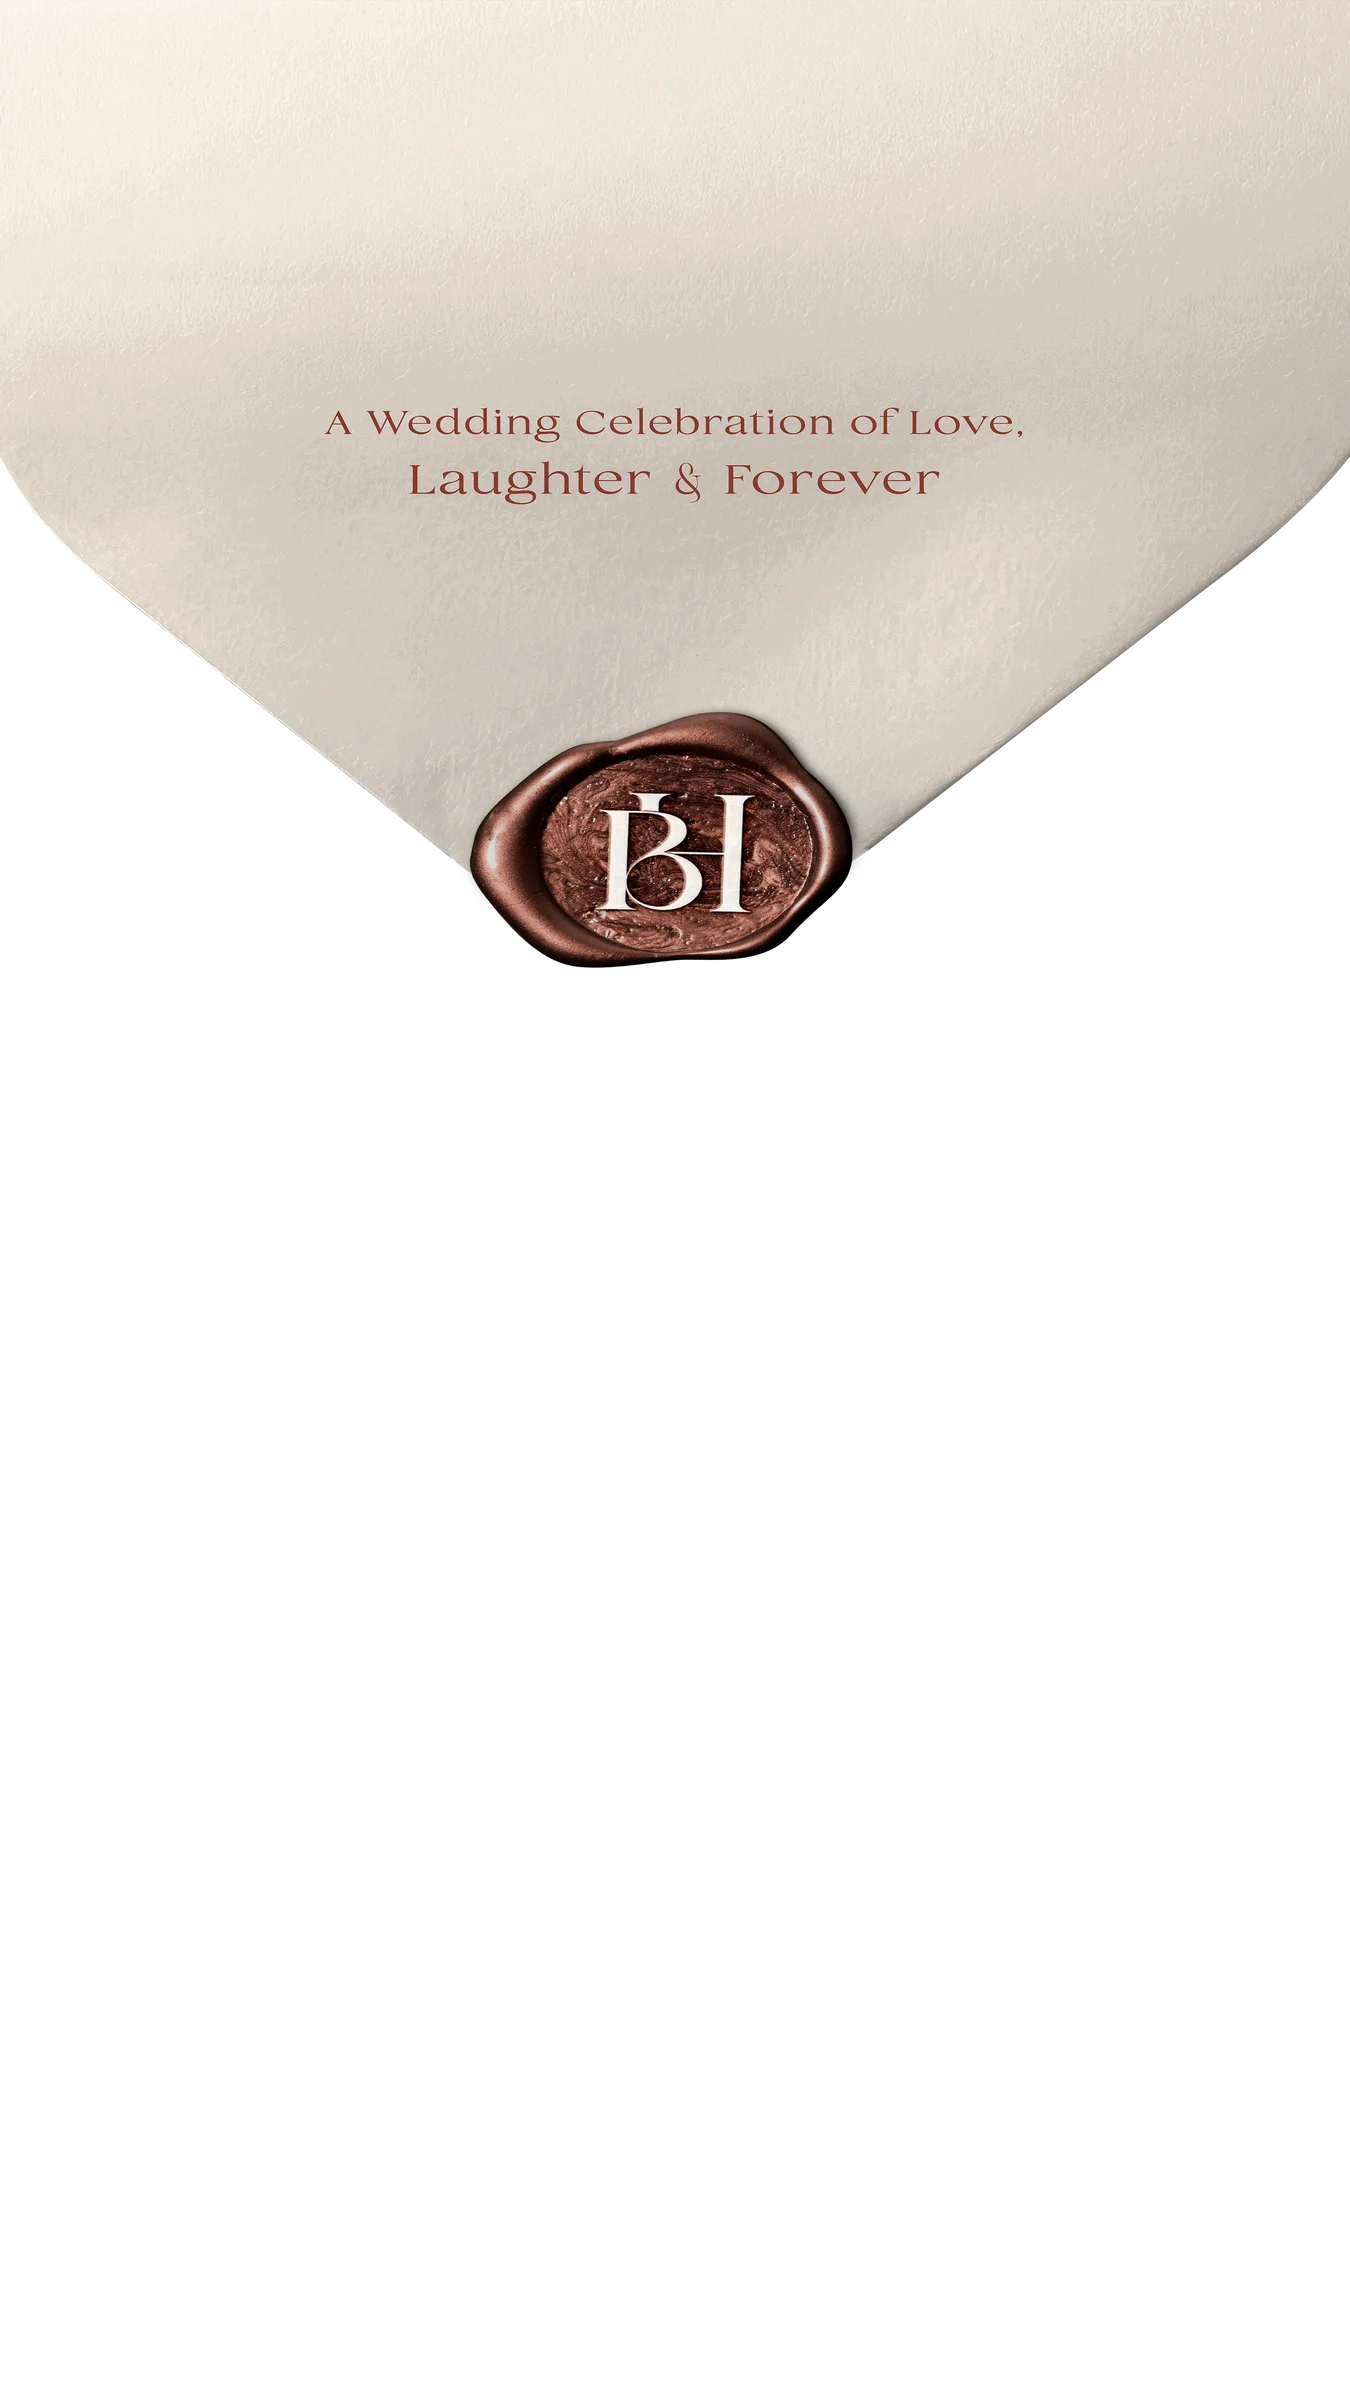
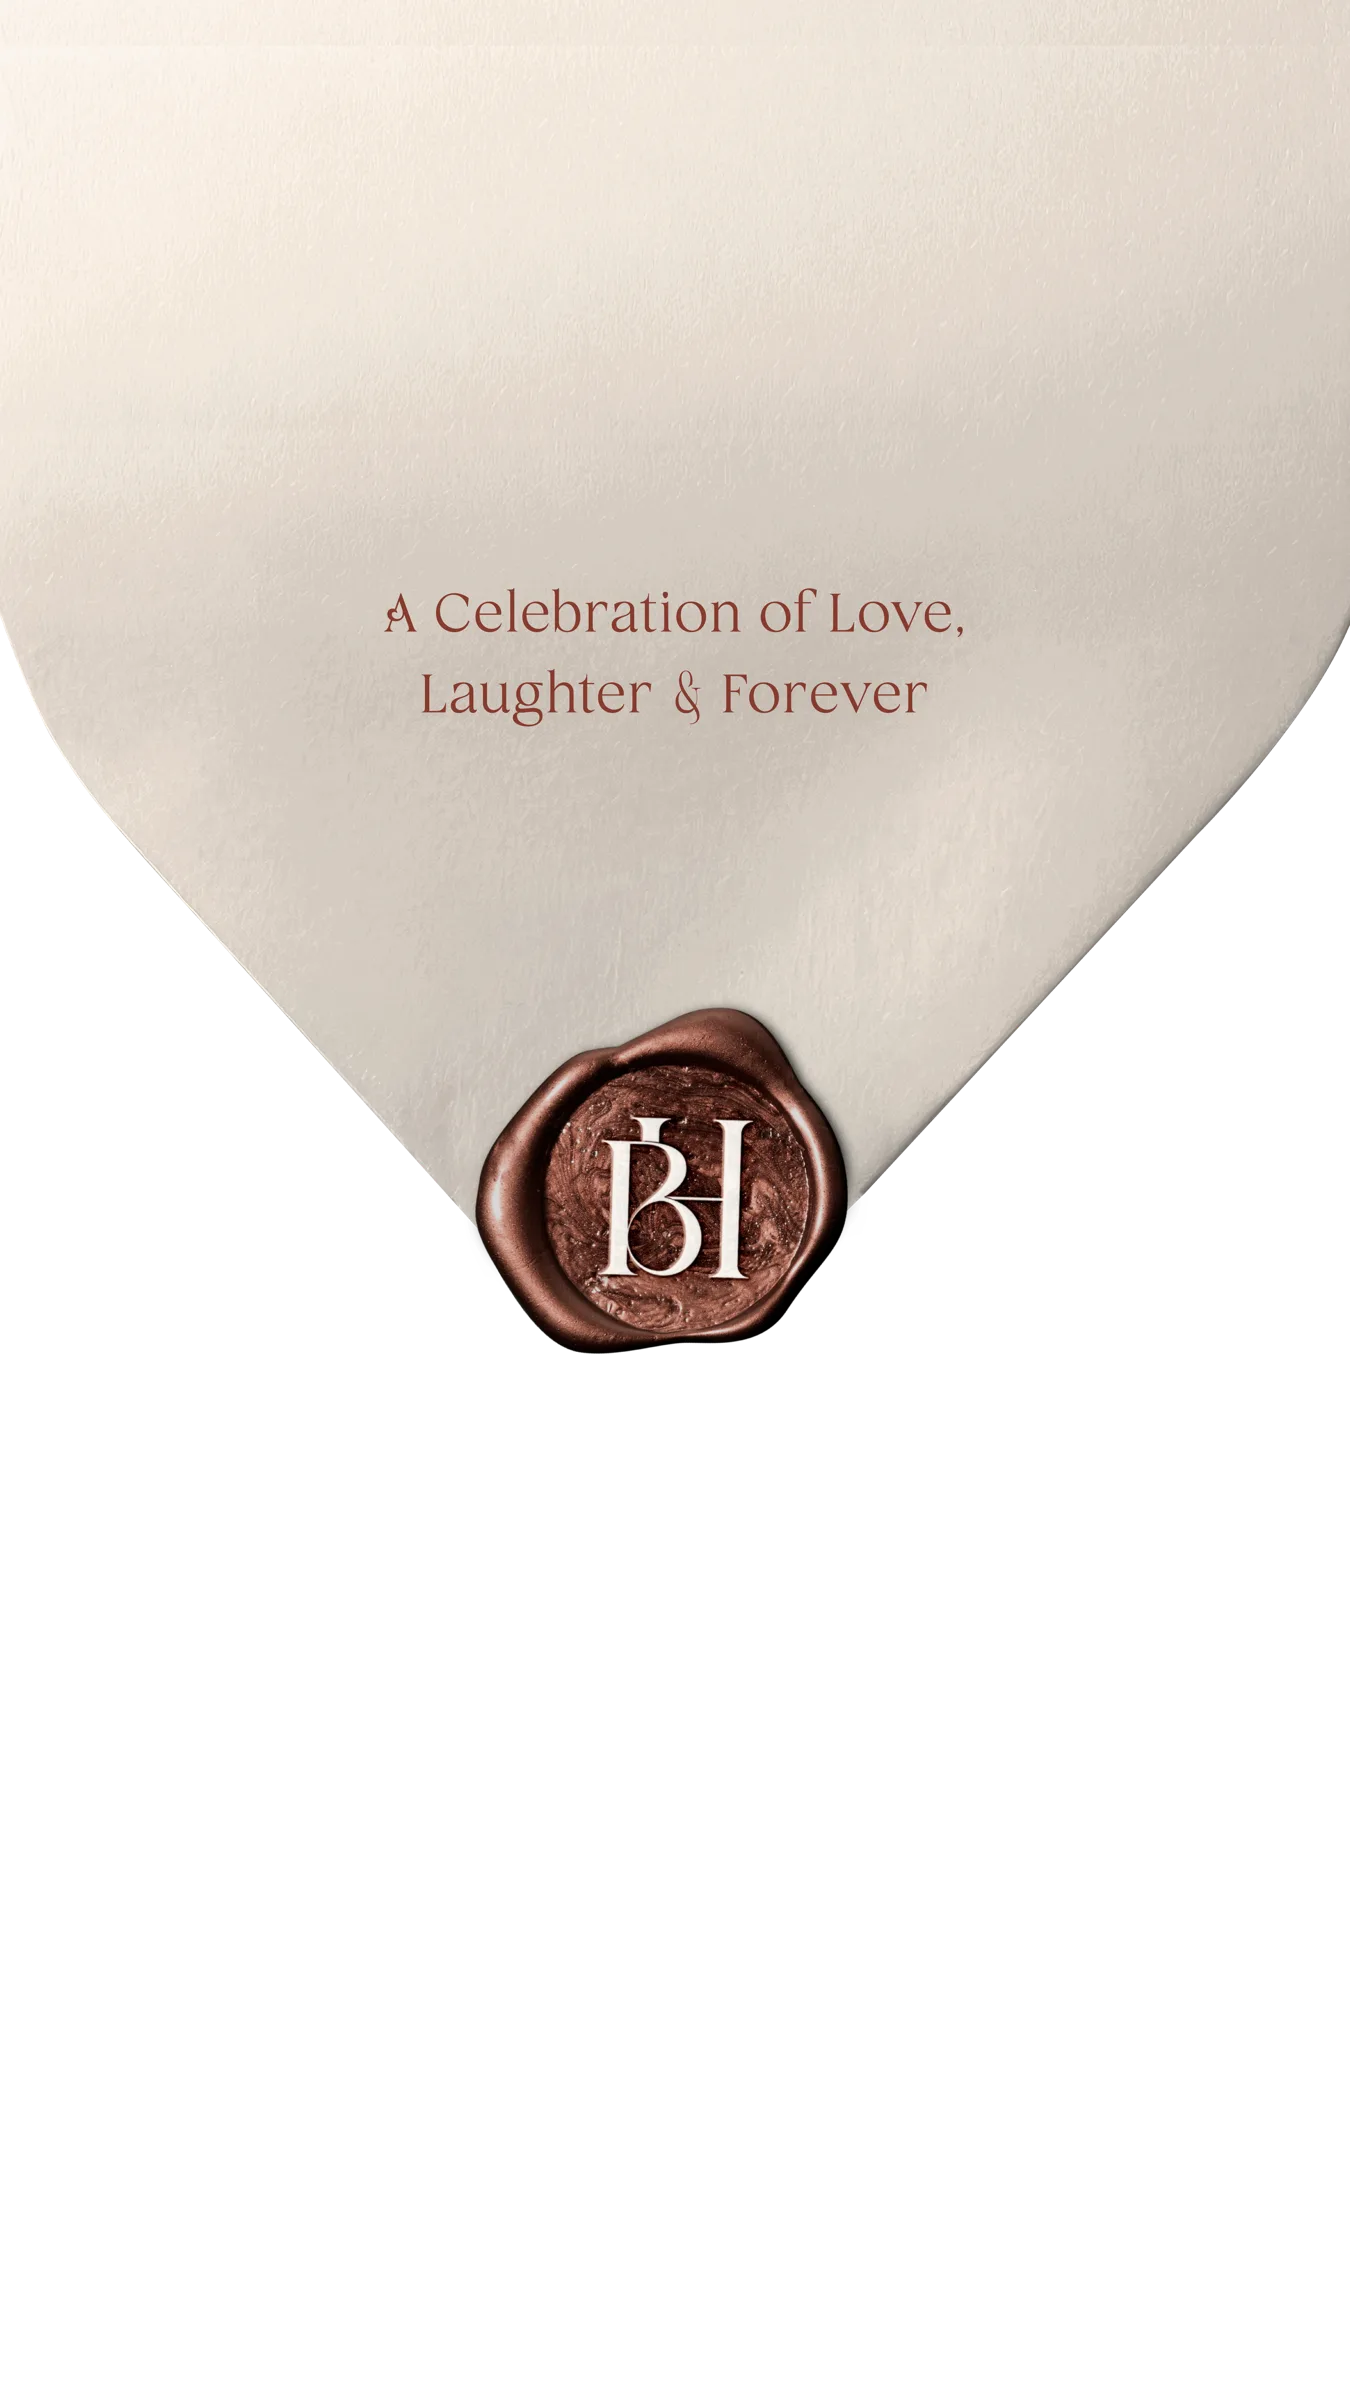
feat: countdown to 11 Nov 2026; revert envelope to original artwork
- New CountdownSection before the venue: live days/hours/minutes/seconds
  to 11 November 2026 (IST) in the site's maroon & gold style
- Envelope opening restored to the original Open 1/Open 2 experience
  (component and assets from before the Open 4 redesign)

diff --git a/components/EnvelopeReveal.tsx b/components/EnvelopeReveal.tsx
@@ -2,17 +2,12 @@
 
 /**
  * EnvelopeReveal — full-screen envelope opening built from the couple's
- * "Open 4" artwork:
- *   "Open 4v"   — the composed closed envelope, the first screen
- *   "Open 4-1"  — transparent flap cutout with the BH wax seal, the
- *                 3D piece that peels open (hinged at the top edge)
- *   "Open 4-2"  — first stage of the light effect revealed underneath
- *   "Open 4-2.1"— second, fully blanched stage the scene builds to
- * Tap anywhere → the closed art dissolves into the lit envelope as the
- * flap peels back, light bleeding out of the mouth as it lifts → a bright
- * flash as it fully opens → the site.
+ * artwork: "Open 2" (envelope body + interior) as the base layer and
+ * "Open 1" (transparent flap cutout with the BH wax seal) as a 3D flap
+ * hinged at the top edge. Tap anywhere → flap peels back → the scene
+ * dissolves into light → the site.
  *
- * All images share one 9:16 canvas, so identical full-screen
+ * Both images share one 9:16 canvas, so identical full-screen
  * object-fit:cover rendering keeps them pixel-registered at any viewport.
  * On phone aspect ratios the image height fits exactly, putting the flap
  * hinge (canvas top) at the screen top edge.
@@ -21,10 +16,9 @@
 import { useEffect, useRef, useState } from "react";
 import { gsap } from "gsap";
 
-const CLOSED_SRC = "/alexa-richard-wedding/envelope-closed.webp";
-const BODY_SRC   = "/alexa-richard-wedding/envelope-body.webp";
-const FLAP_SRC   = "/alexa-richard-wedding/envelope-flap.webp";
-const LIGHT_SRC  = "/alexa-richard-wedding/envelope-light.webp";
+const BODY_SRC  = "/alexa-richard-wedding/envelope-body.webp";
+const FLAP_SRC  = "/alexa-richard-wedding/envelope-flap.webp";
+const LIGHT_SRC = "/alexa-richard-wedding/envelope-light.webp";
 
 const COVER_IMG: React.CSSProperties = {
   position: "absolute",
@@ -45,15 +39,12 @@ export default function EnvelopeReveal({ onOpenComplete, onPlayMusic }: Envelope
   const [mounted, setMounted] = useState(false);
   const [triggered, setTriggered] = useState(false);
   const [loadedCount, setLoadedCount] = useState(0);
-  const ready = loadedCount >= 2; // closed art + flap decoded
+  const ready = loadedCount >= 2; // body + flap decoded
 
   const overlayRef = useRef<HTMLDivElement>(null);
   const sceneRef   = useRef<HTMLDivElement>(null);
-  const closedRef  = useRef<HTMLImageElement>(null);
   const flapRef    = useRef<HTMLDivElement>(null);
   const lightRef   = useRef<HTMLImageElement>(null);
-  const glowRef    = useRef<HTMLDivElement>(null);
-  const flashRef   = useRef<HTMLDivElement>(null);
   const bloomRef   = useRef<HTMLDivElement>(null);
   const mainTlRef  = useRef<gsap.core.Timeline | null>(null);
   const idleTlRef  = useRef<gsap.core.Timeline | null>(null);
@@ -66,12 +57,13 @@ export default function EnvelopeReveal({ onOpenComplete, onPlayMusic }: Envelope
     gsap.to(sceneRef.current, { opacity: 1, duration: 0.35, ease: "power1.out" });
   }, [ready]);
 
-  // Idle breathing — the closed envelope swells almost imperceptibly, like
-  // paper catching candlelight; real stationery never sits perfectly still.
+  // Idle breathing — the flap tip hovers slightly toward the viewer and
+  // settles; real paper never lies perfectly flat.
   useEffect(() => {
     if (!mounted || !ready) return;
+    gsap.set(flapRef.current, { rotationX: 2.5 });
     const tl = gsap.timeline({ repeat: -1, yoyo: true });
-    tl.to(closedRef.current, { scale: 1.012, duration: 2.6, ease: "sine.inOut" });
+    tl.to(flapRef.current, { rotationX: 5, duration: 2.4, ease: "sine.inOut" });
     idleTlRef.current = tl;
     return () => { tl.kill(); };
   }, [mounted, ready]);
@@ -79,13 +71,7 @@ export default function EnvelopeReveal({ onOpenComplete, onPlayMusic }: Envelope
   useEffect(() => {
     if (!mounted) return;
     gsap.set(bloomRef.current, { opacity: 0 });
-    gsap.set(flashRef.current, { opacity: 0 });
-    gsap.set(glowRef.current, { opacity: 0, scale: 0.55, transformOrigin: "50% 35%" });
-    // Light stages are full-frame artwork sharing one canvas — they must
-    // never scale, or their baked text drifts against each other
-    gsap.set(lightRef.current, { opacity: 0 });
-    // The flap starts hidden behind the composed closed art, already in place
-    gsap.set(flapRef.current, { opacity: 0 });
+    gsap.set(lightRef.current, { opacity: 0, scale: 0.75, transformOrigin: "50% 38%" });
 
     const tl = gsap.timeline({
       paused: true,
@@ -95,42 +81,29 @@ export default function EnvelopeReveal({ onOpenComplete, onPlayMusic }: Envelope
       },
     });
 
-    // Phase 1: the closed artwork dissolves into the lit envelope (4-2)
-    // while the real flap takes over from the baked one, perfectly aligned
-    tl.set(flapRef.current, { opacity: 1 })
-      .to(closedRef.current, { opacity: 0, duration: 0.55, ease: "power1.inOut" });
+    // Phase 1: press — the flap flattens under the finger
+    tl.to(flapRef.current, { rotationX: 0.6, duration: 0.14, ease: "power2.out" });
 
-    // Phase 1.5: the wax seal releases — a quick rock outward before the peel
-    tl.to(flapRef.current, { rotationX: 3, duration: 0.15, ease: "back.out(2.5)" }, "-=0.15");
-
-    // Phase 2: the flap peels up slowly — light bleeds out of the widening
-    // mouth (glow grows from behind the flap) while the envelope itself
-    // brightens through the 4-2 → 4-2.1 stages
+    // Phase 2: the flap peels up slowly, light pouring out of the opening
     tl.to(flapRef.current,
         { rotationX: -115, duration: 2.30, ease: "power2.inOut" },
         "+=0.06")
-      .to(glowRef.current,
-        { opacity: 0.9, scale: 1.35, duration: 1.70, ease: "power1.in" },
-        "<+0.45")
       .to(lightRef.current,
-        { opacity: 1, duration: 1.30, ease: "power1.in" },
-        "<+0.25");
+        { opacity: 1, duration: 1.40, ease: "power1.in" },
+        "<+0.30")
+      .to(lightRef.current,
+        { scale: 1.12, duration: 2.00, ease: "power1.out" },
+        "<");
 
-    // Phase 3: the flash — a sharp burst of white the instant the envelope
-    // finishes opening, riding on the warm bloom underneath
+    // Phase 3: dissolve into light (takes over as the flap nears fully open)
     tl.to(bloomRef.current,
-        { opacity: 1, duration: 0.70, ease: "power1.in" },
-        "-=0.55")
-      .to(flashRef.current,
-        { opacity: 1, duration: 0.16, ease: "power4.in" },
-        "-=0.10")
-      .to(flashRef.current,
-        { opacity: 0, duration: 0.85, ease: "power2.out" });
+        { opacity: 1, duration: 0.90, ease: "power1.in" },
+        "-=0.75");
 
-    // Phase 4: overlay fades → main page (starts under the settling flash)
+    // Phase 4: overlay fades → main page
     tl.to(overlayRef.current,
         { opacity: 0, duration: 0.80, ease: "power2.inOut" },
-        "-=0.70");
+        "+=0.12");
 
     mainTlRef.current = tl;
     return () => { tl.kill(); };
@@ -173,15 +146,17 @@ export default function EnvelopeReveal({ onOpenComplete, onPlayMusic }: Envelope
       }}
     >
       <div ref={sceneRef} style={{ position: "absolute", inset: 0, opacity: 0 }}>
-        {/* ── Light stage 1 (4-2) — revealed as the closed art dissolves ──── */}
+        {/* ── Envelope body + interior (what the lifting flap reveals) ────── */}
         <img
           src={BODY_SRC}
           alt=""
           draggable={false}
+          onLoad={() => setLoadedCount((n) => n + 1)}
+          onError={() => setLoadedCount((n) => n + 1)}
           style={{ ...COVER_IMG, zIndex: 1 }}
         />
 
-        {/* ── Light stage 2 (4-2.1) — the scene bleaches toward this ──────── */}
+        {/* ── Light spilling out of the envelope mouth (behind the flap) ──── */}
         <img
           ref={lightRef}
           src={LIGHT_SRC}
@@ -193,19 +168,6 @@ export default function EnvelopeReveal({ onOpenComplete, onPlayMusic }: Envelope
             zIndex: 2,
             opacity: 0,
             pointerEvents: "none",
-          }}
-        />
-
-        {/* ── Light bleed — warm glow seeping out of the envelope mouth as
-               the flap lifts (under the flap, over the envelope art) ──────── */}
-        <div
-          ref={glowRef}
-          aria-hidden="true"
-          style={{
-            position: "absolute", inset: 0, zIndex: 2,
-            opacity: 0, pointerEvents: "none",
-            background:
-              "radial-gradient(85% 60% at 50% 35%, rgba(255,250,235,0.95) 0%, rgba(255,244,220,0.55) 45%, rgba(255,240,210,0) 75%)",
           }}
         />
 
@@ -247,18 +209,6 @@ export default function EnvelopeReveal({ onOpenComplete, onPlayMusic }: Envelope
             }}
           />
         </div>
-
-        {/* ── Closed envelope (4v) — the first screen, on top of everything;
-               dissolves on tap to hand off to the animated layers ─────────── */}
-        <img
-          ref={closedRef}
-          src={CLOSED_SRC}
-          alt=""
-          draggable={false}
-          onLoad={() => setLoadedCount((n) => n + 1)}
-          onError={() => setLoadedCount((n) => n + 1)}
-          style={{ ...COVER_IMG, zIndex: 4, pointerEvents: "none" }}
-        />
       </div>
 
       {/* ── Light bloom — the envelope dissolves into this on opening ─────── */}
@@ -270,17 +220,6 @@ export default function EnvelopeReveal({ onOpenComplete, onPlayMusic }: Envelope
           opacity: 0, pointerEvents: "none",
           background:
             "radial-gradient(120% 90% at 50% 45%, #fffdf6 0%, #fbf4e6 55%, #f2e8d3 100%)",
-        }}
-      />
-
-      {/* ── Flash — sharp white burst the moment the envelope opens ───────── */}
-      <div
-        ref={flashRef}
-        aria-hidden="true"
-        style={{
-          position: "absolute", inset: 0, zIndex: 50,
-          opacity: 0, pointerEvents: "none",
-          background: "#ffffff",
         }}
       />
     </div>

diff --git a/components/CountdownSection.tsx b/components/CountdownSection.tsx
@@ -1,0 +1,96 @@
+"use client";
+
+/**
+ * CountdownSection — live countdown to the wedding festivities
+ * (11 November 2026, IST). Sits between the event cards and the venue,
+ * on the same deep maroon so the run of sections stays tonally continuous.
+ */
+
+import { useEffect, useState } from "react";
+import Reveal from "@/components/Reveal";
+
+const TARGET = new Date("2026-11-11T00:00:00+05:30").getTime();
+
+type Parts = { days: number; hours: number; minutes: number; seconds: number };
+
+function remaining(): Parts {
+  const ms = Math.max(0, TARGET - Date.now());
+  return {
+    days: Math.floor(ms / 86400000),
+    hours: Math.floor(ms / 3600000) % 24,
+    minutes: Math.floor(ms / 60000) % 60,
+    seconds: Math.floor(ms / 1000) % 60,
+  };
+}
+
+export default function CountdownSection() {
+  // Rendered only after mount so server and client markup never disagree
+  const [parts, setParts] = useState<Parts | null>(null);
+
+  useEffect(() => {
+    setParts(remaining());
+    const id = setInterval(() => setParts(remaining()), 1000);
+    return () => clearInterval(id);
+  }, []);
+
+  const tiles = [
+    { value: parts?.days, label: "Days" },
+    { value: parts?.hours, label: "Hours" },
+    { value: parts?.minutes, label: "Minutes" },
+    { value: parts?.seconds, label: "Seconds" },
+  ];
+
+  return (
+    <section
+      className="py-24 px-4 flex flex-col items-center text-center select-none"
+      style={{ backgroundColor: "#390000" }} // Matches Venue / PhotoSlider backdrop
+    >
+      <div className="w-full max-w-md flex flex-col items-center">
+        <Reveal y={18} duration={0.8}>
+          <span className="text-xs uppercase tracking-[0.28em] text-[#e3c984] font-semibold">
+            Save Every Second
+          </span>
+          <h2
+            className="text-[#e3c984] text-[40px] leading-tight mt-2"
+            style={{ fontFamily: "'Great Vibes', cursive" }}
+          >
+            The Countdown Begins
+          </h2>
+          <div className="ornament-divider mt-4 mx-auto max-w-xs text-[#e3c984]">
+            <span className="text-lg">❀</span>
+          </div>
+        </Reveal>
+
+        <Reveal y={26} duration={0.9} delay={0.2} className="w-full mt-10">
+          <div className="grid grid-cols-4 gap-2.5 sm:gap-3.5 w-full">
+            {tiles.map((t) => (
+              <div
+                key={t.label}
+                className="flex flex-col items-center rounded-2xl border border-[#e3c984]/35 py-4 sm:py-5"
+                style={{ background: "rgba(227, 201, 132, 0.07)" }}
+              >
+                <span
+                  className="font-display text-3xl sm:text-4xl text-white/95 tabular-nums"
+                  suppressHydrationWarning
+                >
+                  {t.value !== undefined && t.value !== null
+                    ? String(t.value).padStart(2, "0")
+                    : "--"}
+                </span>
+                <span className="text-[10px] uppercase tracking-[0.2em] text-[#e3c984]/90 font-semibold mt-1.5">
+                  {t.label}
+                </span>
+              </div>
+            ))}
+          </div>
+        </Reveal>
+
+        <Reveal duration={0.8} delay={0.35}>
+          <p className="font-serif italic text-white/70 text-base mt-8">
+            until the celebrations begin — 11 November 2026
+          </p>
+        </Reveal>
+      </div>
+    </section>
+  );
+}

diff --git a/app/page.tsx b/app/page.tsx
@@ -7,6 +7,7 @@ import MusicPlayer from "@/components/MusicPlayer";
 import HeroSection from "@/components/HeroSection";
 import SaveTheDate from "@/components/SaveTheDate";
 import EventsSection from "@/components/EventsSection";
+import CountdownSection from "@/components/CountdownSection";
 import PhotoSlider from "@/components/PhotoSlider";
 import ScheduleTimeline from "@/components/ScheduleTimeline";
 import VenueSection from "@/components/VenueSection";
@@ -108,6 +109,9 @@ export default function Home() {
         {/* Haldi, Sangeet, Wedding & Reception cards — one per screen on the
             BH5 gradient */}
         <EventsSection />
+
+        {/* Countdown to the festivities */}
+        <CountdownSection />
 
         {/* Venue */}
         <VenueSection />
